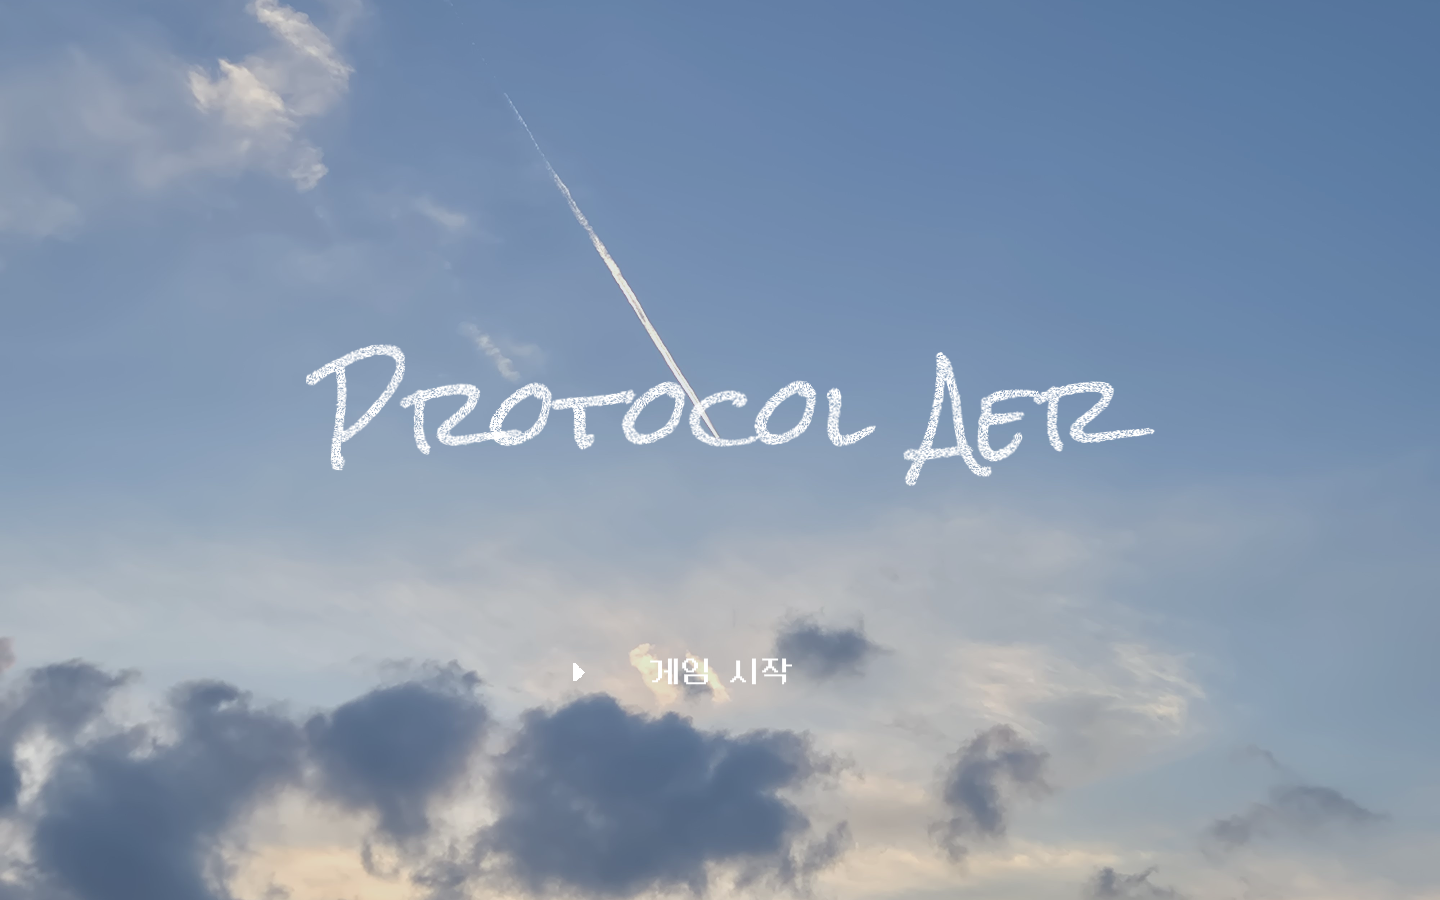
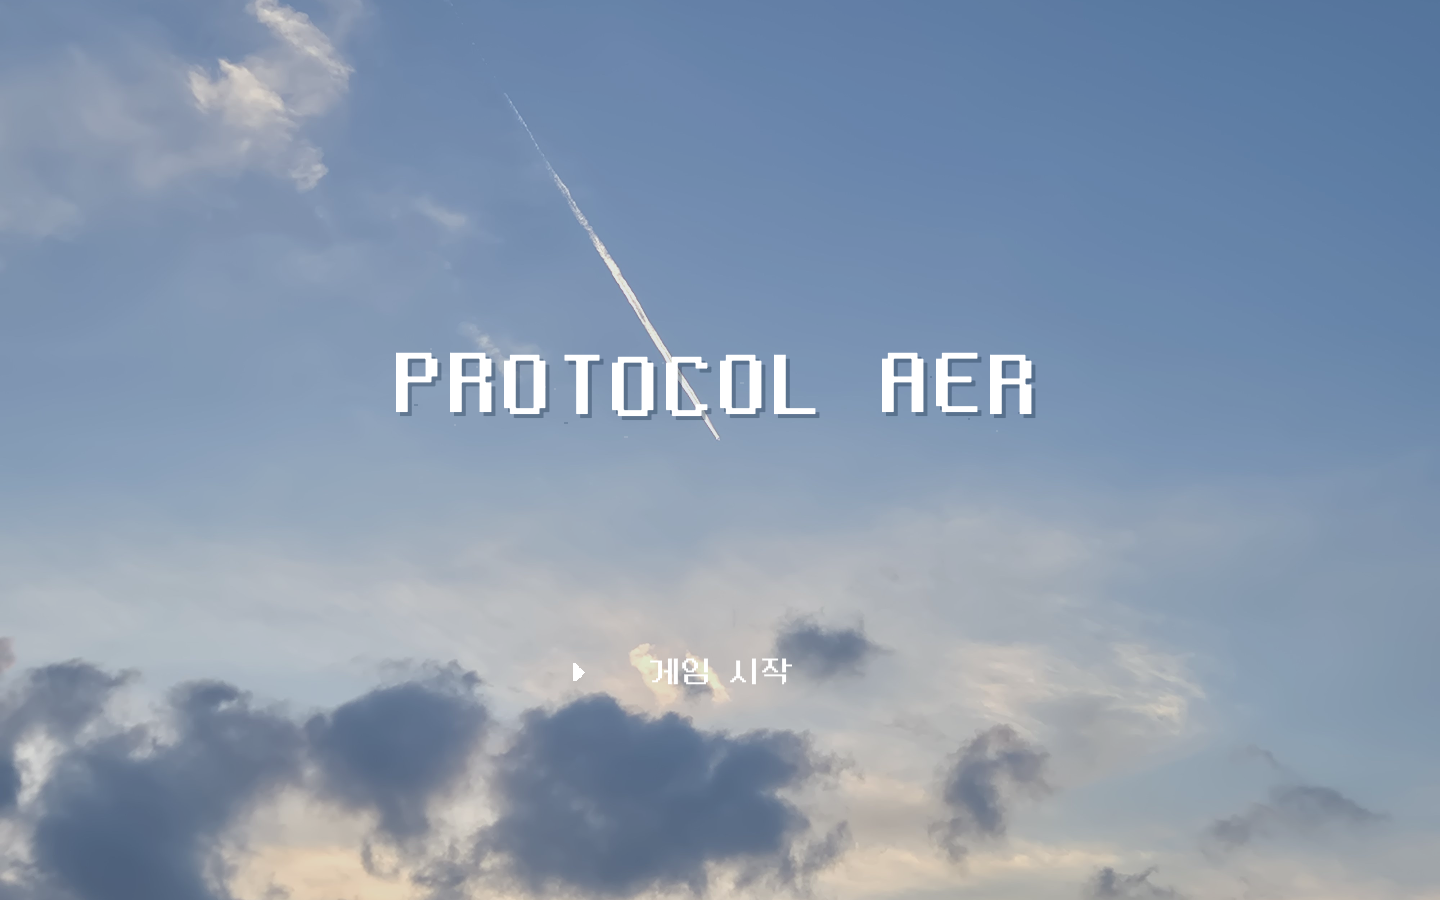
Restyle title with crisp retro pixel type and subtle digital grain

Changed region(s): [[0.2188, 0.3733, 0.8125, 0.5289]]

diff --git a/Assets/Scripts/ProtocolAer.cs b/Assets/Scripts/ProtocolAer.cs
@@ -17,9 +17,8 @@ public sealed class ProtocolAer:MonoBehaviour
     static readonly Rect Preview=new Rect(38,219,516,414),Grid=new Rect(600,228,440,440);
     static readonly Color FrontEdge=Hex("8FD9FF");
     const float PreviewAlpha=.80f;
-    Texture2D sky,triangle,titleChalk;Font korean,chalk,mono;
-    [Serializable] sealed class TitleMetrics {public float[] Advances;}
-    TitleMetrics titleMetrics;
+    Texture2D sky,triangle;Font korean,chalk,mono;
+    GUIStyle pixelTitleLabel;
     Camera backgroundCamera,previewCamera,maskCamera;RenderTexture previewTexture,maskTexture;
     Material fillMat,lineMat,ghostMat,targetDepthMat,targetLineMat,frontEdgeMat;Mesh cube,edge,targetEdges,frontEdge;Transform sceneRoot;
     readonly List<GameObject> modules=new List<GameObject>();
@@ -45,8 +44,6 @@ public sealed class ProtocolAer:MonoBehaviour
         Application.runInBackground=true;Application.targetFrameRate=60;
         foreach(var cam in FindObjectsByType<Camera>(FindObjectsSortMode.None))cam.enabled=false;
         sky=Resources.Load<Texture2D>("Art/Sky");
-        titleChalk=Resources.Load<Texture2D>("Art/TitleChalk");var metrics=Resources.Load<TextAsset>("Art/TitleChalkMetrics");
-        if(metrics!=null)titleMetrics=JsonUtility.FromJson<TitleMetrics>(metrics.text.TrimStart('\uFEFF'));
         korean=Resources.Load<Font>("Fonts/Pixel");chalk=Resources.Load<Font>("Fonts/ChalkHand");mono=korean;
         if(korean==null)korean=Font.CreateDynamicFontFromOSFont("Malgun Gothic",18);
         if(chalk==null)chalk=korean;if(mono==null)mono=korean;
@@ -389,17 +386,47 @@ public sealed class ProtocolAer:MonoBehaviour
     {
         if(sky!=null)GUI.DrawTexture(new Rect(0,0,1440,900),sky,ScaleMode.ScaleAndCrop);
         Fill(new Rect(0,0,1440,900),new Color(.1f,.22f,.38f,.12f));
-        string title="Protocol Aer";float total=0;foreach(float advance in titleMetrics.Advances)total+=advance;
-        float left=720-total/2;
-        for(int i=0;i<title.Length;i++)
-        {
-            float w=titleMetrics.Advances[i];
-            float dx=Mathf.Sin(Time.unscaledTime*2.1f+i*1.9f)*1.6f,dy=Mathf.Sin(Time.unscaledTime*2.5f+i*2.7f)*2.5f;
-            var m=GUI.matrix;GUIUtility.RotateAroundPivot(Mathf.Sin(Time.unscaledTime*1.7f+i)*1.5f,new Vector2(left+w/2,391));
-            GUI.DrawTextureWithTexCoords(new Rect(left-20+dx,300+dy,160,220),titleChalk,new Rect(i/12f,0,1/12f,1));GUI.matrix=m;left+=w;
-        }
+        DrawRetroTitle(390,true);
         Text(new Rect(520,641,400,65),"게임 시작",32,Color.white,true,TextAnchor.MiddleCenter);
         if(Mathf.Repeat(Time.unscaledTime,1.3f)<.7f)GUI.DrawTexture(new Rect(573,663,13,18),triangle);
+    }
+    static uint TitleNoiseHash(uint value)
+    {value^=value>>16;value*=0x7feb352du;value^=value>>15;value*=0x846ca68bu;return value^(value>>16);}
+    void DrawPixelGlyph(string glyph,float left,float top,float width,Color color)
+    {
+        var old=GUI.matrix;pixelTitleLabel.normal.textColor=color;
+        GUI.matrix=old*Matrix4x4.TRS(new Vector3(Snap(left),Snap(top),0),Quaternion.identity,new Vector3(6,6,1));
+        GUI.Label(new Rect(0,0,width+1,16),glyph,pixelTitleLabel);GUI.matrix=old;
+    }
+    void DrawRetroTitle(float centerY,bool animated)
+    {
+        const string title="PROTOCOL AER";const float scale=6;
+        if(pixelTitleLabel==null)pixelTitleLabel=new GUIStyle(GUI.skin.label){font=korean,fontSize=16,fontStyle=FontStyle.Normal,alignment=TextAnchor.UpperLeft,wordWrap=false,padding=new RectOffset(0,0,0,0),margin=new RectOffset(0,0,0,0)};
+        korean.RequestCharactersInTexture(title,16,FontStyle.Normal);
+        if(korean.material.mainTexture!=null)korean.material.mainTexture.filterMode=FilterMode.Point;
+        var widths=new float[title.Length];float total=0;
+        for(int i=0;i<title.Length;i++){widths[i]=Mathf.Ceil(pixelTitleLabel.CalcSize(new GUIContent(title[i].ToString())).x);total+=widths[i]*scale;}
+        float left=720-total/2,start=left,top=centerY-48;
+        int tick=Mathf.FloorToInt(Time.unscaledTime*8);
+        for(int i=0;i<title.Length;i++)
+        {
+            string glyph=title[i].ToString();
+            float dy=animated?Mathf.Round(Mathf.Sin(Time.unscaledTime*1.7f+i*.7f)*.8f)*2:0;
+            bool glitch=animated&&tick%29==0&&i>=3&&i<=6;
+            DrawPixelGlyph(glyph,left+4,top+dy+4,widths[i],new Color(.04f,.13f,.23f,.32f));
+            if(glitch)DrawPixelGlyph(glyph,left-2,top+dy,widths[i],new Color(.65f,.9f,1,.22f));
+            DrawPixelGlyph(glyph,left+(glitch?2:0),top+dy,widths[i],Color.white);
+            left+=widths[i]*scale;
+        }
+        if(!animated)return;
+        // Sparse point-filtered grain, kept local to the title area. Hashing
+        // avoids changing Unity's random state or any puzzle behavior.
+        for(uint i=0;i<18;i++)
+        {
+            uint seed=TitleNoiseHash((uint)tick*97u+i*7919u);
+            float x=start+(seed%((uint)total/2))*2,y=top+((seed>>12)%48)*2;
+            Fill(new Rect(x,y,i%5==0?4:2,2),i%3==0?new Color(.05f,.17f,.29f,.20f):new Color(1,1,1,.13f));
+        }
     }
     void DrawBoot()
     {
@@ -604,7 +631,7 @@ public sealed class ProtocolAer:MonoBehaviour
     {
         if(sky!=null)GUI.DrawTexture(new Rect(0,0,1440,900),sky,ScaleMode.ScaleAndCrop);
         Fill(new Rect(0,0,1440,900),new Color(.08f,.2f,.35f,.3f));
-        Text(new Rect(220,300,1000,110),"Protocol Aer",70,Color.white,false,TextAnchor.MiddleCenter,chalk);
+        DrawRetroTitle(355,false);
         Text(new Rect(320,460,800,55),"복원 완료",26,Color.white,true,TextAnchor.MiddleCenter);
         if(Button(new Rect(545,640,350,50),"타이틀로"))SetScreen(ScreenMode.Title);
     }

diff --git a/docs/Development.md b/docs/Development.md
@@ -31,9 +31,9 @@ No save/load or PlayerPrefs access. Progress exists only in memory and disappear
 
 ## Visuals
 
-Retro pixel interface inspired by the user's blue-toned pixel city reference: deep navy backgrounds, blue panels, pale blue text, stepped borders, hard shadows, pixel-rasterized radar lines and a point-filtered 258×207 3D preview. Korean text uses NeoDunggeunmo at native bitmap multiples. Title uses the user's sky photograph with individually wobbling Rock Salt glyphs, a fixed chalk grain and a blinking start triangle. No character or decorative story copy. No numbers on the placement board. O / L / I / S / T colors are exactly #FFDBEE / #94E8E9 / #D4B4EF / #FFB2BC / #FEECB1. The tray, cursor, board and source-colored 3D layers share these colors; S affects height and remains visible on the 2D board. Weather restoration uses the same abstract code puzzle, not a physical atmospheric simulation.
+Retro pixel interface inspired by the user's blue-toned pixel city reference: deep navy backgrounds, blue panels, pale blue text, stepped borders, hard shadows, pixel-rasterized radar lines and a point-filtered 258×207 3D preview. Korean text uses NeoDunggeunmo at native bitmap multiples. Title uses the user's sky photograph with white uppercase NeoDunggeunmo glyphs rendered at native 16-pixel size and enlarged sixfold with point filtering. Small stepped two-pixel movement, sparse low-alpha pixel grain and a rare tiny cyan offset add restrained digital noise. The blinking start triangle remains. No character or decorative story copy. No numbers on the placement board. O / L / I / S / T colors are exactly #FFDBEE / #94E8E9 / #D4B4EF / #FFB2BC / #FEECB1. The tray, cursor, board and source-colored 3D layers share these colors; S affects height and remains visible on the 2D board. Weather restoration uses the same abstract code puzzle, not a physical atmospheric simulation.
 
-Font sources and license copies are bundled under Assets/Resources/Fonts: NeoDunggeunmo (https://github.com/neodgm/neodgm, SIL OFL) and Rock Salt (https://github.com/google/fonts/tree/main/apache/rocksalt, Apache 2.0). The title grain can be regenerated with Tools/MakeChalkTitle.ps1.
+Font sources and license copies are bundled under Assets/Resources/Fonts: NeoDunggeunmo (https://github.com/neodgm/neodgm, SIL OFL) and Rock Salt (https://github.com/google/fonts/tree/main/apache/rocksalt, Apache 2.0). The earlier chalk-logo resources and regeneration tool remain archived in the source; the current title uses the runtime pixel font.
 
 All unconfirmed 3D placement results use an alpha-blended preview (80% alpha, no depth writes, back-face culling). Target shapes show bright white exterior surface creases, including target-only mode, distinct from the blue floor grid. Shared edges between coplanar faces are omitted; convex corners, concave corners and front-facing step edges remain. A separate camera uses depth-only contiguous voxels on layer 29 to hide rear edges without occluding the player's translucent preview. It follows the 3D camera while orbiting/zooming. Execution and failed attempts stay transparent. Only a successful execution switches the result to opaque colored cubes; the completed result is visible for 0.65 seconds before the success dialog. Editing/resetting/re-entering clears the restored visual state. Board colors and tray icons remain solid for readability. The boot message reads “기상 조작 시스템에 연결하는 중…”.
 

diff --git a/README.md b/README.md
@@ -83,4 +83,4 @@ powershell -ExecutionPolicy Bypass -File .\Tools\VerifyWindows.ps1
 
 ## 글꼴
 
-NeoDunggeunmo와 Rock Salt를 사용합니다. 원본 라이선스는 `Assets/Resources/Fonts/Pixel-OFL.txt`, `Assets/Resources/Fonts/ChalkHand-License.txt`에 포함되어 있습니다.
+현재 타이틀과 UI는 NeoDunggeunmo를 사용합니다. NeoDunggeunmo와 보관된 Rock Salt 리소스의 원본 라이선스는 `Assets/Resources/Fonts/Pixel-OFL.txt`, `Assets/Resources/Fonts/ChalkHand-License.txt`에 포함되어 있습니다.
